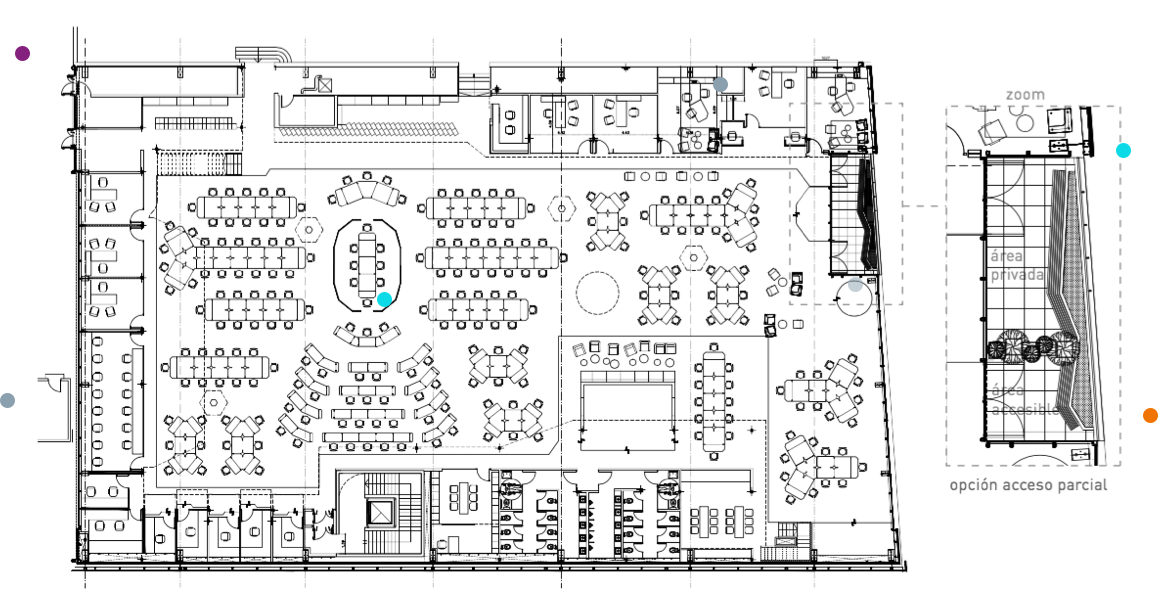
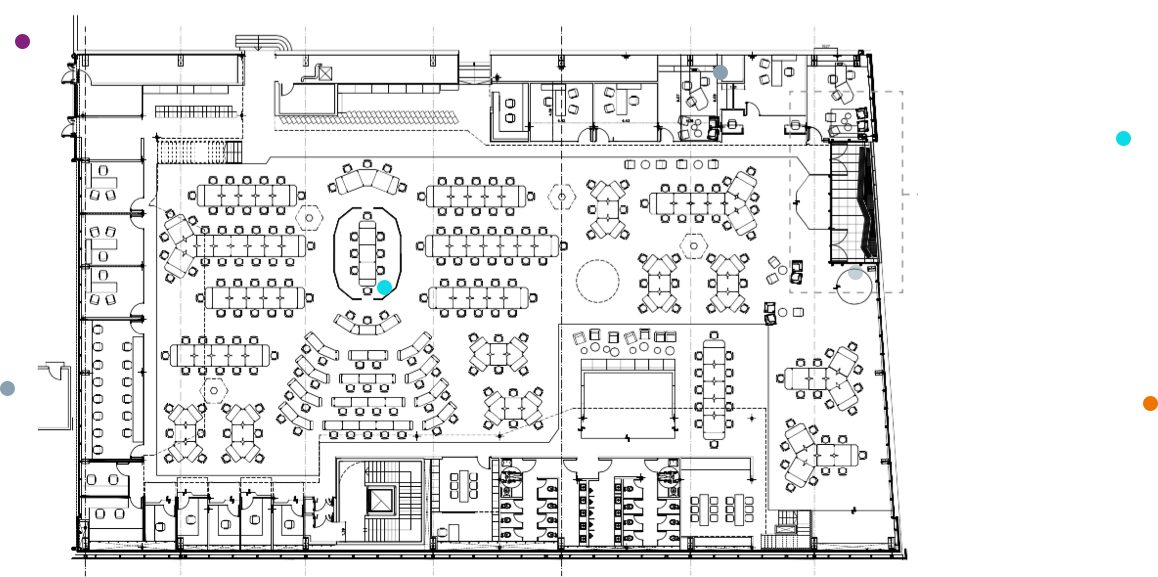
planta fix

Changed region(s): [[0.0311, 0.0624, 0.8083, 0.9983], [0.8083, 0.156, 1.0, 0.8423], [0.0, 0.0624, 0.0311, 0.1248]]

diff --git a/landing_artear/css/style.css b/landing_artear/css/style.css
@@ -2167,7 +2167,7 @@ input[type="color"]:focus {
 .planta .boeing_nota{
 	position: relative;
 	float: right;
-	margin-top: -160px;
+	margin-top: -400px;
 }
 
 .galeria {
@@ -2265,6 +2265,11 @@ input[type="color"]:focus {
 		margin-top: -324px;
     margin-left: 320px;
 	}
+
+	.planta .boeing_nota {
+		margin-top: -260px;
+	}
+
 	.pastilla_1,
 	.pastilla_2,
 	.pastilla_3 {
@@ -2372,13 +2377,12 @@ input[type="color"]:focus {
 	}
 
 	.planta .boeing_nota {
-		margin-top: 0;
+		margin-top: -100px;
 		float: right;
 	}
 
 	.planta .boeing_nota img {
 		height: 60px;
-		margin-top: -100px;
 	}
 
 	.planta_text {
